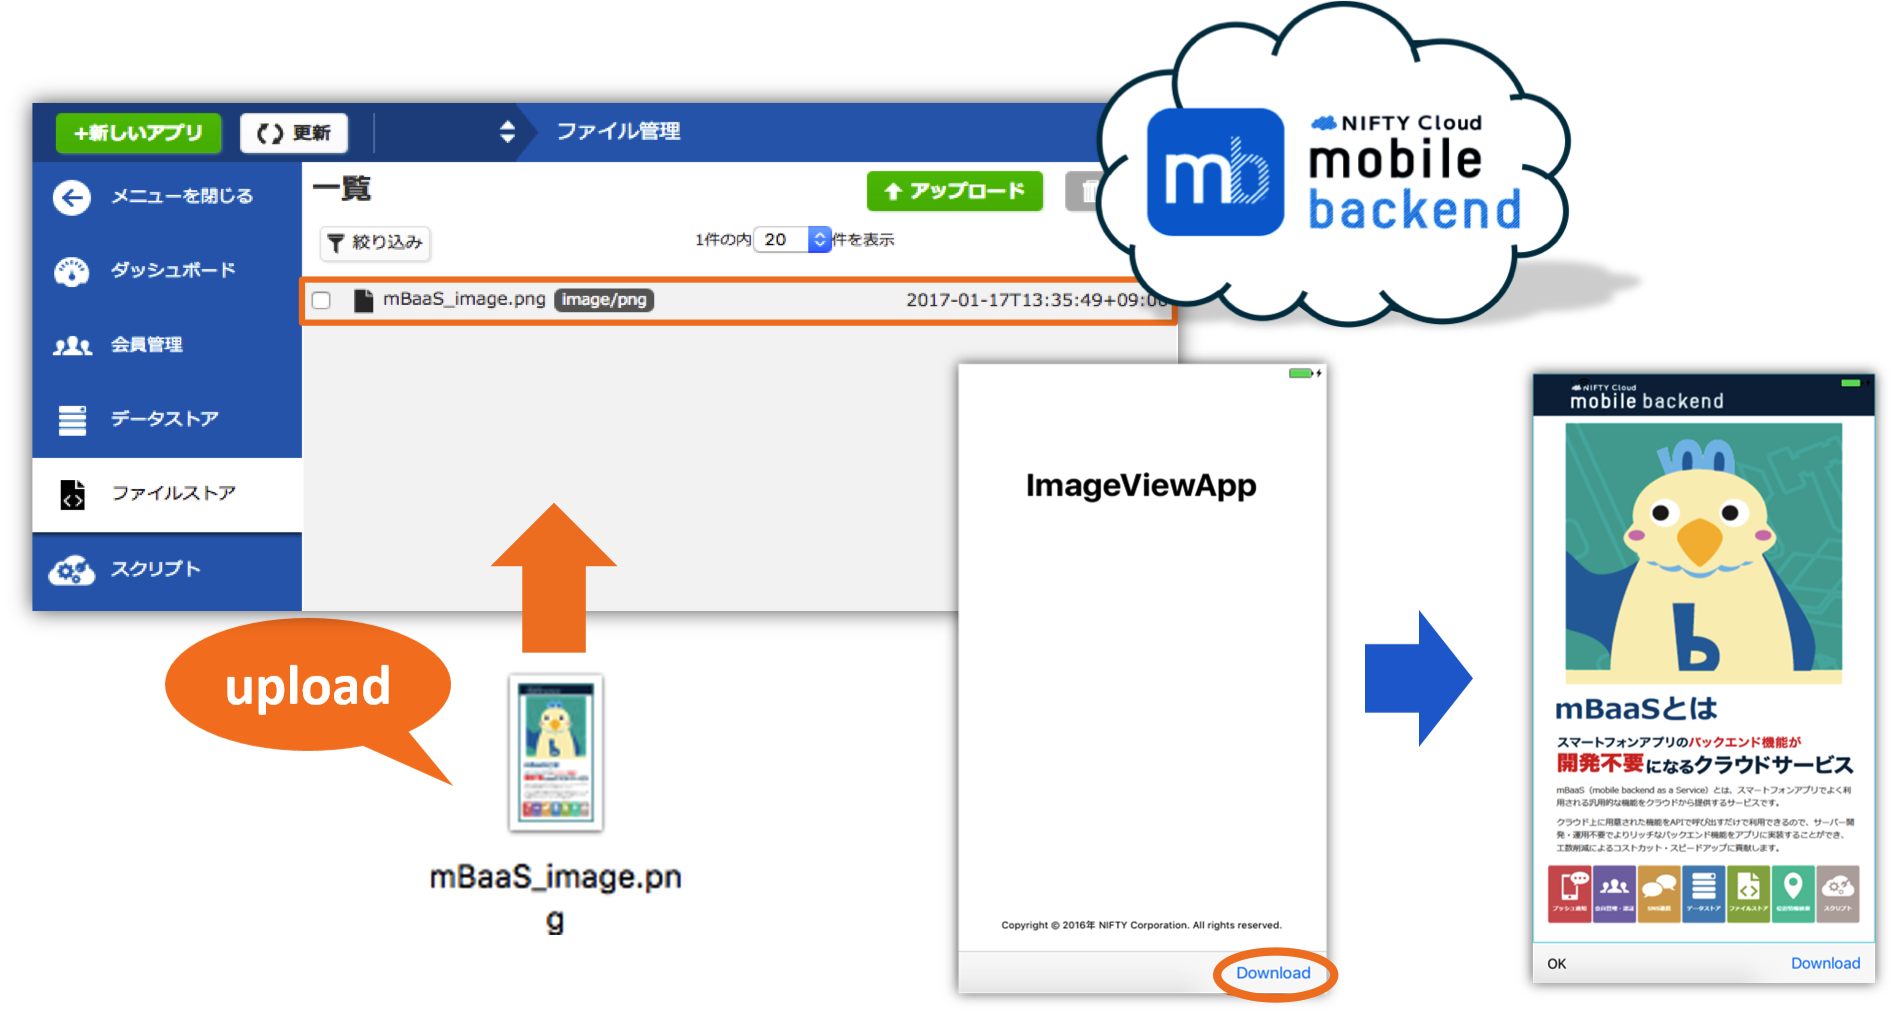
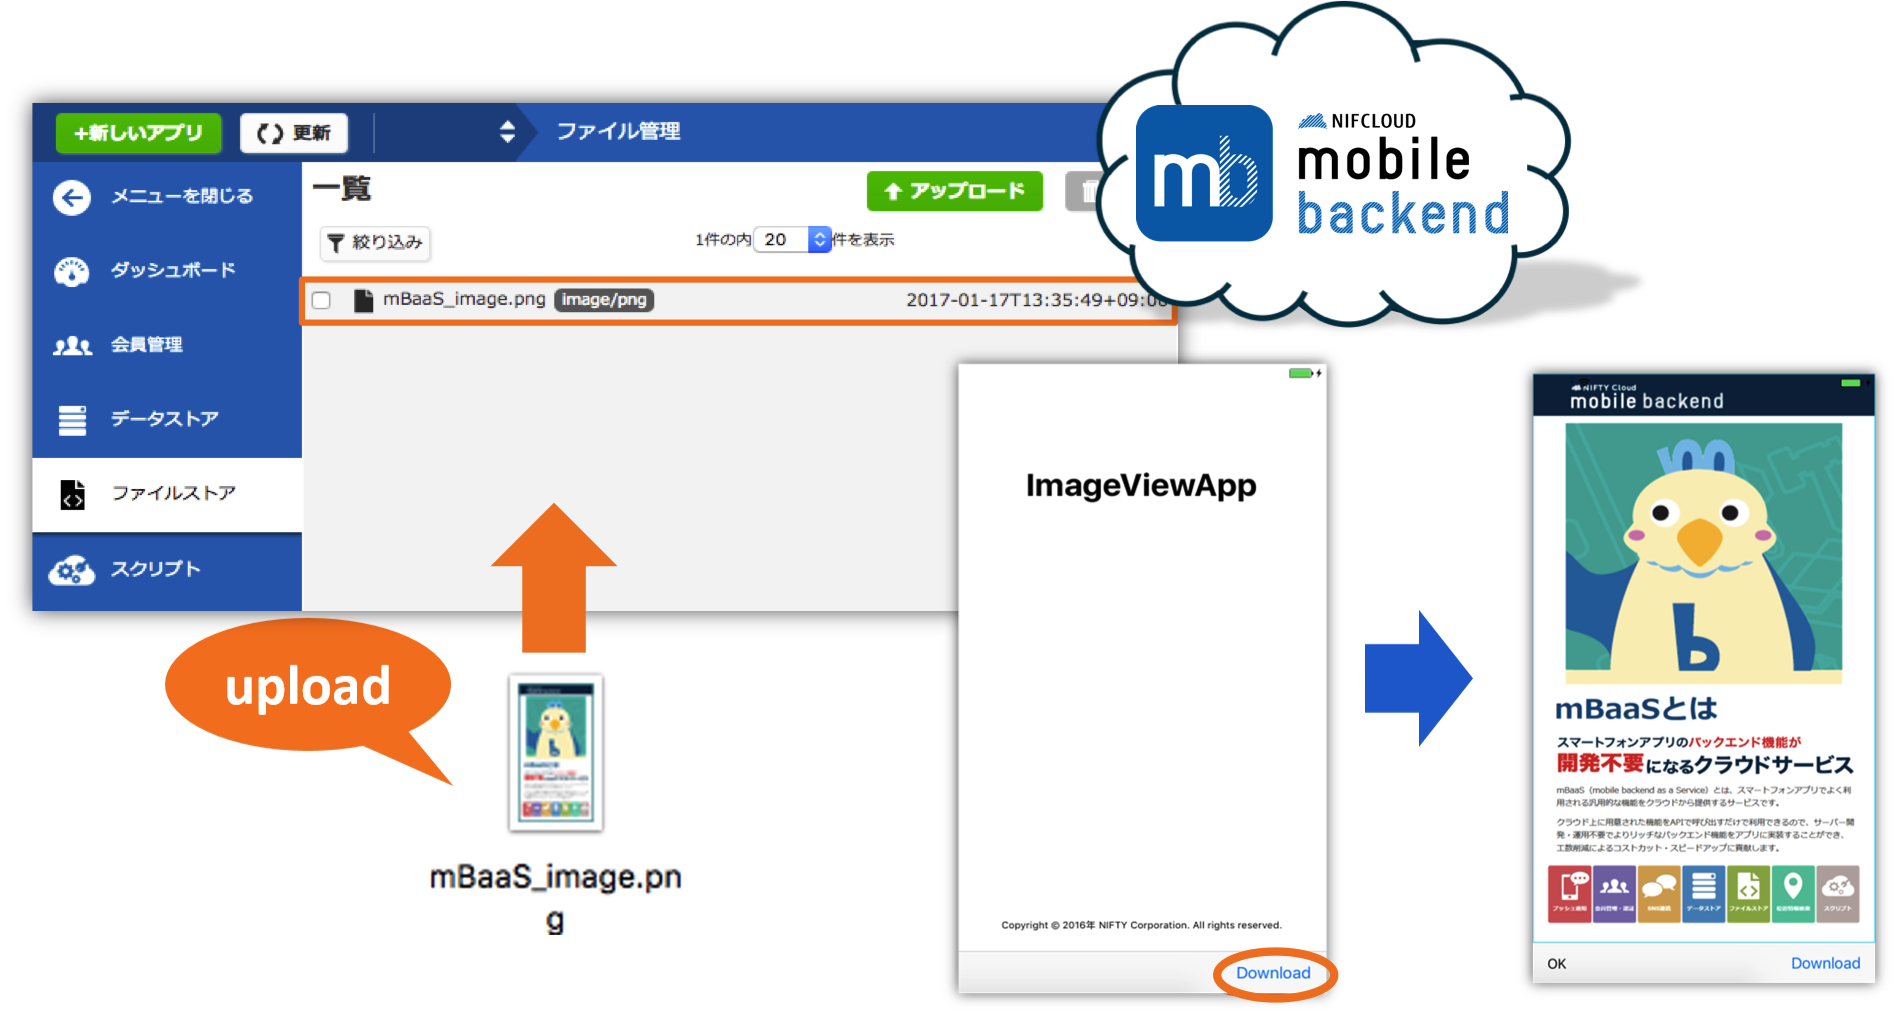
Update readme

Changed region(s): [[0.5919, 0.0917, 0.8099, 0.2446]]

diff --git a/README.md b/README.md
@@ -2,38 +2,37 @@
 ![画像1](/readme-img/001.png)
 
 ## 概要
-* [ニフティクラウドmobile backend](http://mb.cloud.nifty.com/)(通称mBaaS)の『ファイルストア機能』を利用して、アップロードした画像をアプリ側で表示するサンプルプロジェクトです
-* 簡単な操作ですぐに [ニフティクラウドmobile backend](http://mb.cloud.nifty.com/)の機能を体験いただけます★☆
+* [ニフクラmobile backend](https://mbaas.nifcloud.com/)(通称mBaaS)の『ファイルストア機能』を利用して、アップロードした画像をアプリ側で表示するサンプルプロジェクトです
+* 簡単な操作ですぐに [ニフクラmobile backend](https://mbaas.nifcloud.com/)の機能を体験いただけます★☆
 
 ## ニフティクラウドmobile backendって何？？
 スマートフォンアプリのバックエンド機能（プッシュ通知・データストア・会員管理・ファイルストア・SNS連携・位置情報検索・スクリプト）が**開発不要**、しかも基本**無料**(注1)で使えるクラウドサービス！
 
-注1：詳しくは[こちら](http://mb.cloud.nifty.com/price.htm)をご覧ください
+注1：詳しくは[こちら](https://mbaas.nifcloud.com/function.htm)をご覧ください
 
 ![画像2](/readme-img/002.png)
 
 ## 動作環境
-* Mac OS X 10.12(Sierra)
-* Xcode ver. 8.0
-* Simulator ver. 10.0
- * iPhone7
+* Mac OS X 10.14.4(Mojave)
+* Xcode ver. 11.2
+* iPhone6 ver. 12.1.4
 
 ※上記内容で動作確認をしています。
 
 ## 手順
-### 1. [ ニフティクラウドmobile backend ](http://mb.cloud.nifty.com/)の会員登録・ログインとアプリの新規作成
+### 1. [ ニフクラmobile backend ](https://mbaas.nifcloud.com/)の会員登録・ログインとアプリの新規作成
 * 上記リンクから会員登録（無料）をします。登録ができたらログインをすると下図のように「アプリの新規作成」画面が出るのでアプリを作成します
 
 ![画像3](/readme-img/003.png)
 
 * アプリ作成されると下図のような画面になります
-* この２種類のAPIキー（アプリケーションキーとクライアントキー）はXcodeで作成するiOSアプリに[ニフティクラウドmobile backend](http://mb.cloud.nifty.com/)を紐付けるために使用します
+* この２種類のAPIキー（アプリケーションキーとクライアントキー）はXcodeで作成するiOSアプリに[ニフクラmobile backend](https://mbaas.nifcloud.com/)を紐付けるために使用します
 
 ![画像4](/readme-img/004.png)
 
 ### 2. GitHubからサンプルプロジェクトのダウンロード
 * 下記リンクをクリックしてプロジェクトをMacにダウンロードします
- * __[SwiftImageViewApp](https://github.com/natsumo/SwiftImageViewApp/archive/master.zip)__
+ * __[SwiftImageViewApp](https://github.com/NIFCLOUD-mbaas/SwiftImageViewApp/archive/master.zip)__
 
  ※この中にはプロジェクトと別に、「setting」フォルダが入っています。この中にある画像を後ほどアップロードして使用します。
 
@@ -50,7 +49,7 @@
 
 ### 4. APIキーの設定
 * `AppDelegate.swift`を編集します
-* 先程[ニフティクラウドmobile backend](http://mb.cloud.nifty.com/)のダッシュボード上で確認したAPIキーを貼り付けます
+* 先程[ニフクラmobile backend](https://mbaas.nifcloud.com/)のダッシュボード上で確認したAPIキーを貼り付けます
 
 ![画像7](/readme-img/007.png)
 
@@ -59,7 +58,7 @@
  * 書き換え終わったら`command + s`キーで保存をします
 
 ### 5. 画像ファイルのアップロード
-* [ニフティクラウドmobile backend](http://mb.cloud.nifty.com/)のダッシュボードで、「ファイルストア」を開きます
+* [ニフクラmobile backend](https://mbaas.nifcloud.com/)のダッシュボードで、「ファイルストア」を開きます
 * 「↑アップロード」をクリックします
 
 ![画像12](/readme-img/012.png)
@@ -92,14 +91,13 @@
 
 __画像が表示されない場合__
 * ネットワークを確認してください
-* 画面左下にエラーコードが出ている場合は[こちら](http://mb.cloud.nifty.com/doc/current/rest/common/error.html#REST%20API%E3%81%AE%E3%82%A8%E3%83%A9%E3%83%BC%E3%82%B3%E3%83%BC%E3%83%89%E3%81%AB%E3%81%A4%E3%81%84%E3%81%A6)から確認できます
+* 画面左下にエラーコードが出ている場合は[こちら](https://mbaas.nifcloud.com/doc/current/rest/common/error.html#REST%20API%E3%81%AE%E3%82%A8%E3%83%A9%E3%83%BC%E3%82%B3%E3%83%BC%E3%83%89%E3%81%AB%E3%81%A4%E3%81%84%E3%81%A6)から確認できます
 
-## 解説
+## コードの解説
 ここではサンプルアプリに実装済みの内容について紹介します
 
 ### SDKのインポートと初期設定
-* ニフティクラウドmobile backend のドキュメント（クイックスタート）をSwift版に書き換えたドキュメントをご用意していますので、ご活用ください
- * [SwiftでmBaaSを始めよう！(＜CocoaPods＞でuse_framewoks!を有効にした方法)](http://qiita.com/natsumo/items/57d3a4d9be16b0490965)
+* ニフクラmobile backend のドキュメント（クイックスタート）をSwift版に書き換えたドキュメントをご用意していますので、ご活用ください
 
 ### ロジック
 * `Main.storyboard`でデザインを作成し、`ViewController.swift`にロジックを書いています
@@ -114,41 +112,40 @@ class ViewController: UIViewController {
     @IBOutlet weak var imageView: UIImageView!
     // label
     @IBOutlet weak var label: UILabel!
-
+    
     override func viewDidLoad() {
         super.viewDidLoad()
         // labelの初期化
         label.text = ""
-
+        
     }
-
+    
     // 「Download」ボタン押下時の処理
     @IBAction func download(_ sender: UIBarButtonItem) {
         // 取得する画像ファイル名を設定
-        let imageFile = NCMBFile.file(withName: "mBaaS_image.png", data: nil) as! NCMBFile
+        let imageFile : NCMBFile = NCMBFile(fileName: "mBaaS_image.png")
         // 画像ファイルを取得
-        imageFile.getDataInBackground({ (data, error) in
-            if error != nil {
-                // 取得失敗時の処理
-                let err = error as! NSError
-                print("画像ファイルの取得に失敗しました：\(err.code)")
-                self.label.text = "NG エラーコード：\(err.code)"
-            } else {
+        imageFile.fetchInBackground(callback: { result in
+            switch result {
+            case let .success(data):
                 // 取得成功時の処理
                 print("画像ファイルの取得に成功しました")
-                self.label.text = "OK"
-                // 画像を表示する処理
-                self.imageView.image = UIImage(data: data!)
-
+                DispatchQueue.main.async {
+                    self.label.text = "OK"
+                    // 画像を表示する処理
+                    self.imageView.image = UIImage(data: data!)
+                }
+            case let .failure(error):
+                print("画像ファイルの取得に失敗しました：\(error)")
+                DispatchQueue.main.async {
+                    self.label.text = "NG エラーコード：\(error)"
+                }
+                return;
             }
-
-        }) { (num) in
-                self.label.text = "\(num)%"
-        }
+        })
     }
-}
 ```
 
 ## 参考
 * 同じ内容の【Objective-C】版もご用意しています
- * https://github.com/NIFTYCloud-mbaas/ObjcImageViewApp
+ * https://github.com/NIFCLOUD-mbaas/ObjcImageViewApp
